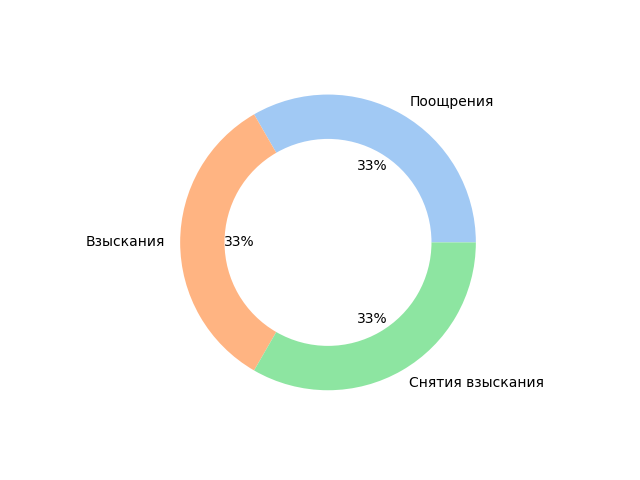
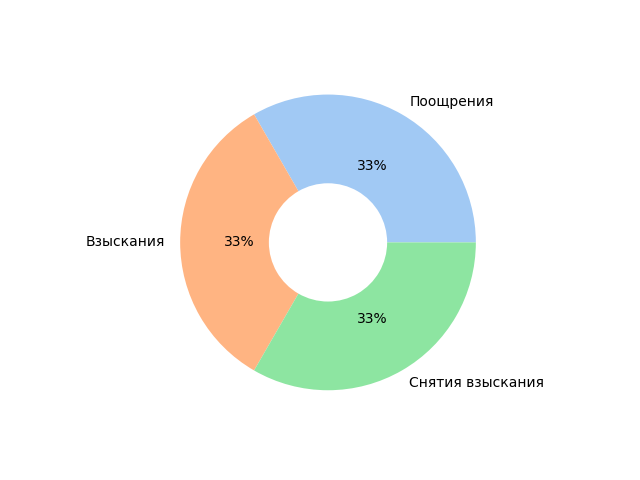
fix plot create in template

Changed region(s): [[0.3438, 0.2812, 0.6875, 0.7188]]

diff --git a/main/templates/main/statistica.html b/main/templates/main/statistica.html
@@ -37,10 +37,11 @@
             </form>
         </div>
     </div>
-     <div class="alert alert-warning text-center mt-4 mx-5" id="no_content" role="alert" style="display:none;">
+     <div class="alert alert-warning text-center mt-5 mx-5" id="no_content" role="alert" style="display:none;">
         <h4 class="mt-1">Нет данных</h4>
     </div>
     <div class="row justify-content-center alert alert-secondary mt-5 mx-5" id="show_content" style="visibility:hidden;">
+        <p>{{ request.user.category }}</p>
         <div class="col-5 me-5">
             <canvas id="myChart"></canvas>
         </div>

diff --git a/main/views.py b/main/views.py
@@ -150,11 +150,13 @@ def statistica_docxcreate(request):
     if is_ajax:
         data = json.loads(request.POST.get('pars_data'))
         doc = DocxTemplate('main/static/main/docx/Statistica_template.docx')
-        # data = [data['promotions'], data['punishments'], data['withdrawals'] ]
-        # labels = ['Поощрения', 'Взыскания', 'Снятия взыскания']
-        # colors = sns.color_palette('pastel')[0:5]
-        # plt.pie(data, labels=labels, colors=colors, autopct='%.0f%%', wedgeprops=dict(width=0.3))
-        # plt.savefig('main/static/main/docx/pie.png')
+        plt_data = [data['promotions'], data['punishments'], data['withdrawals']]
+        plt_labels = ['Поощрения', 'Взыскания', 'Снятия взыскания']
+        colors = sns.color_palette('pastel')[0:5]
+        plt.switch_backend('agg')
+        plt.pie(plt_data, labels=plt_labels, colors=colors, autopct='%.0f%%', wedgeprops=dict(width=0.6))
+        plt.savefig('main/static/main/docx/pie.png')
+        plt.close()
 
         context = {
             'userNode': request.user.category,
@@ -163,7 +165,7 @@ def statistica_docxcreate(request):
             'promotions': data['promotions'],
             'punishments': data['punishments'],
             'withdrawals': data['withdrawals'],
-            # 'pieImg': InlineImage(doc, 'main/static/main/docx/pie.png')
+            'pieImg': InlineImage(doc, 'main/static/main/docx/pie.png')
         }
         doc.render(context)
         doc.save('main/static/main/docx/Statistica.docx')
